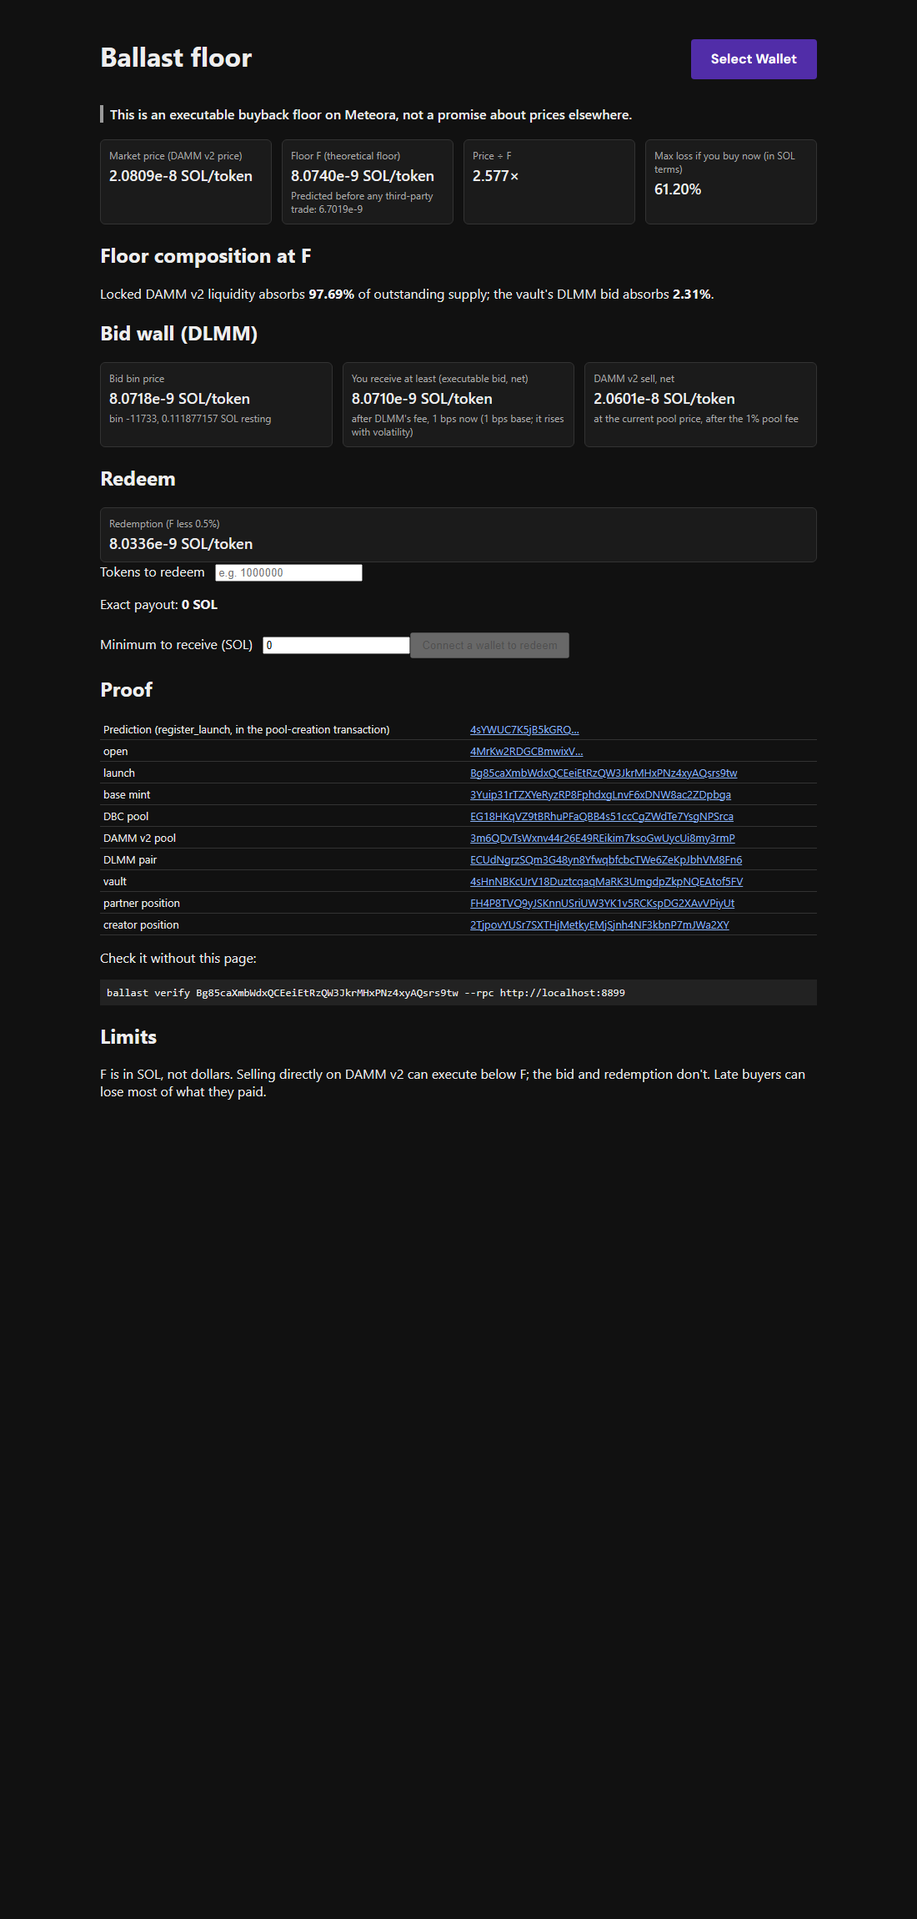
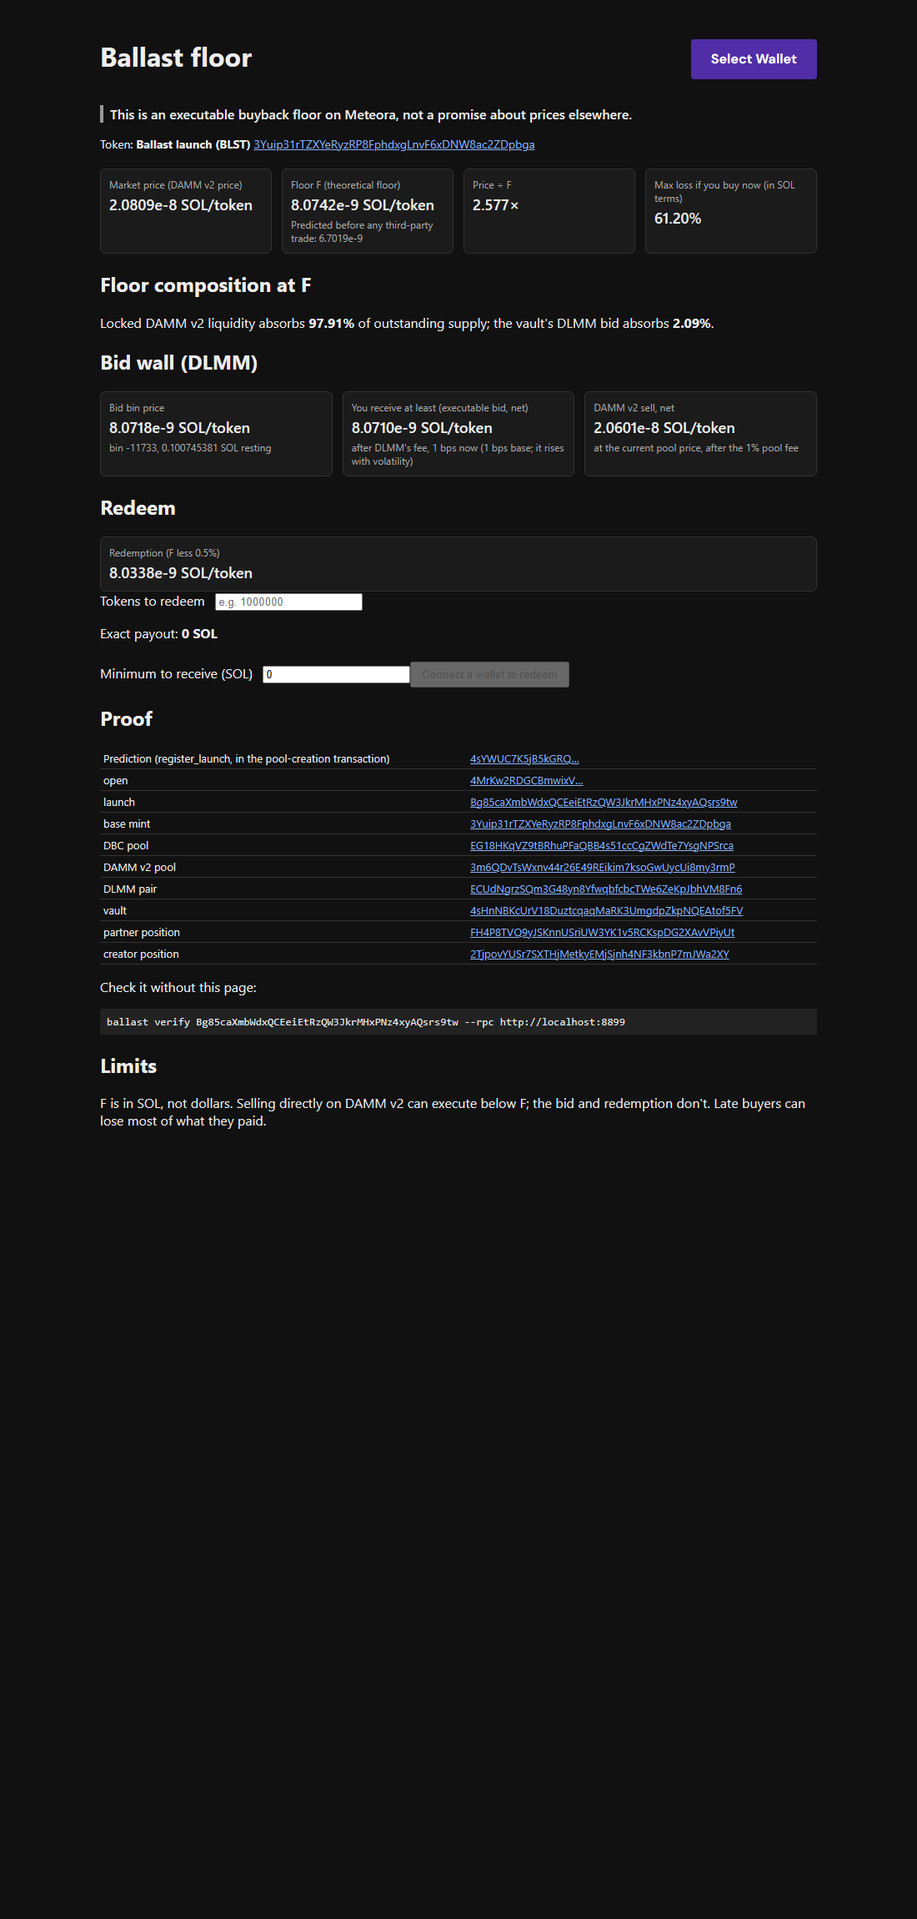
feat(app): token named in the header; Redeem path tested end to end; owner decisions recorded (§21, §10, D-011)
- The page header names the token from the mint's metadata (§21 header).
- pnpm -F app test:redeem: the page's quote, the transaction the Redeem button builds, signed and
  landed on the local ledger; payout = quote, tokens burned exactly, F rose, ledger still closes.
- Owner, 10 Oct: devnet option A approved (program unchanged); CLAUDE.md uses D-011's wording.
  The treasury-closed harvest change is not applied and stays open.

diff --git a/app/test/redeem.e2e.ts b/app/test/redeem.e2e.ts
@@ -1,0 +1,104 @@
+/**
+ * The page's one write path, end to end on the local proof ledger: the quote the Redeem panel shows,
+ * the transaction the Redeem button builds (`buildRedeemTx`, no lookup table), signed as a wallet
+ * would sign it, landed, and checked against the chain: tokens burned, WSOL received, the program's
+ * `Redeemed` event, §10's formula, and the page's numbers after reloading.
+ *
+ *   pnpm proof:local            # leaves the gate 9 launch Open with holders
+ *   pnpm -F app test:redeem
+ */
+import { readFileSync } from "node:fs";
+import { resolve } from "node:path";
+import { BorshCoder, EventParser } from "@coral-xyz/anchor";
+import BN from "bn.js";
+import { Connection, Keypair, PublicKey } from "@solana/web3.js";
+import { getAssociatedTokenAddressSync } from "@solana/spl-token";
+import { BallastClient, LAUNCH_STATE, WSOL } from "../../sdk/typescript/src/client";
+import { loadFloor } from "../../sdk/typescript/src/floor";
+import { buildRedeemTx, loadModel, REDEEM_FEE_BPS } from "../src/model";
+
+const REPO = resolve(__dirname, "../..");
+const RPC = process.env.RPC ?? "http://127.0.0.1:8899";
+
+async function main(): Promise<void> {
+  const conn = new Connection(RPC, "confirmed");
+  const idl = JSON.parse(readFileSync(resolve(REPO, "target/idl/ballast.json"), "utf8"));
+  const floor = await loadFloor(readFileSync(resolve(REPO, "target/wasm32-unknown-unknown/release/floor_wasm.wasm")));
+  const client = new BallastClient(conn, idl);
+  const all = (await (client.program.account as never as { launch: { all(): Promise<{ publicKey: PublicKey; account: { state: number; registeredSlot: BN } }[]> } }).launch.all())
+    .filter((x) => x.account.state === LAUNCH_STATE.open)
+    .sort((a, b) => Number(b.account.registeredSlot.toString()) - Number(a.account.registeredSlot.toString()));
+  const launch = process.env.LAUNCH ? new PublicKey(process.env.LAUNCH) : all[0]?.publicKey;
+  if (!launch) throw new Error("no Open launch on this ledger — run pnpm proof:local first");
+
+  // What the page shows before the click.
+  const before = await loadModel(conn, idl, launch, floor);
+  // A redemption worth a tenth of V: well above §10's 0.001 SOL minimum, well inside the vault.
+  const amount = ((before.inputs.v / 10n) << 128n) / (before.s * before.s);
+  const quote = floor.payout(amount, before.s, REDEEM_FEE_BPS);
+  if (quote < 1_000_000n) throw new Error(`the vault is too small for a redemption above the minimum (quote ${quote} lamports)`);
+
+  // A holder: the test wallet with the most tokens (the proof script's named wallets).
+  const keys = JSON.parse(readFileSync(resolve(REPO, "tests/integration/p0/.state/keys.json"), "utf8")) as Record<string, number[]>;
+  const bal = async (a: PublicKey) => conn.getTokenAccountBalance(a, "confirmed").then((b) => BigInt(b.value.amount), () => 0n);
+  let holder: Keypair | null = null;
+  let held = 0n;
+  for (const k of Object.values(keys)) {
+    const w = Keypair.fromSecretKey(Uint8Array.from(k));
+    const b = await bal(getAssociatedTokenAddressSync(before.baseMint, w.publicKey, true));
+    if (b > held) [holder, held] = [w, b];
+  }
+  if (!holder || held < amount) throw new Error(`no test wallet holds ${amount} base units of ${before.baseMint.toBase58()}`);
+  const baseAta = getAssociatedTokenAddressSync(before.baseMint, holder.publicKey, true);
+  const quoteAta = getAssociatedTokenAddressSync(WSOL, holder.publicKey, true);
+  const [base0, wsol0] = [await bal(baseAta), await bal(quoteAta)];
+
+  // The click: min_out defaults to the quote; the wallet signs, the page adds the order keypair.
+  const { tx, order, size } = await buildRedeemTx(conn, idl, launch, holder.publicKey, amount, quote);
+  tx.sign([order, holder]);
+  const signature = await conn.sendRawTransaction(tx.serialize(), { skipPreflight: true });
+  const bh = await conn.getLatestBlockhash("confirmed");
+  await conn.confirmTransaction({ signature, ...bh }, "confirmed");
+  let landed = await conn.getTransaction(signature, { commitment: "confirmed", maxSupportedTransactionVersion: 0 });
+  for (let i = 0; i < 40 && !landed?.meta; i++) {
+    await new Promise((r) => setTimeout(r, 250));
+    landed = await conn.getTransaction(signature, { commitment: "confirmed", maxSupportedTransactionVersion: 0 });
+  }
+  if (!landed?.meta) throw new Error(`${signature} not found`);
+  const logs = landed.meta.logMessages ?? [];
+  if (landed.meta.err) throw new Error(`redeem failed ${JSON.stringify(landed.meta.err)}\n${logs.join("\n")}`);
+
+  const events = [...new EventParser(new PublicKey(idl.address), new BorshCoder(idl)).parseLogs(logs)];
+  const ev = events.find((e) => e.name.toLowerCase() === "redeemed")?.data as Record<string, { toString(): string }> | undefined;
+  const pick = (k: string) => BigInt(String(ev?.[k] ?? ev?.[k.replace(/_(.)/g, (_m, c: string) => c.toUpperCase())] ?? -1));
+  const [sBefore, sAfter, paid] = [pick("s_before"), pick("s_after"), pick("payout")];
+  const [base1, wsol1] = [await bal(baseAta), await bal(quoteAta)];
+  const after = await loadModel(conn, idl, launch, floor);
+
+  const checks: Record<string, boolean> = {
+    fitsWithoutLookupTable: size <= 1232,
+    tokensBurnedExactly: base0 - base1 === amount,
+    wsolReceivedEqualsEvent: wsol1 - wsol0 === paid,
+    // Paid at s after settling the bid, which is never below the s the page quoted at.
+    payoutEqualsFormulaAtSettledS: paid === floor.payout(amount, sBefore, REDEEM_FEE_BPS),
+    payoutAtLeastPageQuote: paid >= quote,
+    floorDidNotFall: sAfter >= sBefore && sBefore >= before.s,
+    pageAfterShowsTheNewFloor: after.floorMatches && after.s === sAfter,
+    supplyFellByAmount: before.inputs.sSupply - after.inputs.sSupply >= amount,
+  };
+  console.log(JSON.stringify({
+    launch: launch.toBase58(), holder: holder.publicKey.toBase58(), signature, txBytes: size, cu: landed.meta.computeUnitsConsumed,
+    amountBaseUnits: amount, pageQuoteLamports: quote, paidLamports: paid, sPage: before.s, sBefore, sAfter, checks,
+  }, (_k, x) => (typeof x === "bigint" ? x.toString() : x), 2));
+  const failed = Object.entries(checks).filter(([, ok]) => !ok).map(([k]) => k);
+  if (failed.length) {
+    console.error(`FAIL: ${failed.join(", ")}`);
+    process.exit(1);
+  }
+  console.log(`PASS: ${Object.keys(checks).length} checks`);
+}
+
+main().catch((e) => {
+  console.error(e);
+  process.exit(1);
+});

diff --git a/app/src/model.ts b/app/src/model.ts
@@ -24,10 +24,30 @@ export const solPerToken = (lamportsPerBaseUnit: number) => lamportsPerBaseUnit 
 /** F in SOL per token from s = ⌊√F·2^64⌋. Display only. */
 export const fFromS = (s: bigint) => solPerToken((Number(s) / Q64) ** 2);
 
+const TOKEN_METADATA = new PublicKey("metaqbxxUerdq28cj1RbAWkYQm3ybzjb6a8bt518x1s");
+
+/** The token's name and symbol from its Metaplex metadata account (DBC creates it); null if unreadable. */
+async function tokenLabel(conn: Connection, mint: PublicKey): Promise<{ name: string; symbol: string } | null> {
+  const [pda] = PublicKey.findProgramAddressSync([Buffer.from("metadata"), TOKEN_METADATA.toBuffer(), mint.toBuffer()], TOKEN_METADATA);
+  const acc = await conn.getAccountInfo(pda, "confirmed");
+  if (!acc || !acc.owner.equals(TOKEN_METADATA) || acc.data.length < 69) return null;
+  // key (1) · update authority (32) · mint (32) · name (u32 length + bytes) · symbol (u32 length + bytes)
+  const text = (at: number): [string, number] | null => {
+    const len = acc.data.readUInt32LE(at);
+    if (len > 64 || at + 4 + len > acc.data.length) return null;
+    return [acc.data.subarray(at + 4, at + 4 + len).toString("utf8").replace(/\0/g, "").trim(), at + 4 + len];
+  };
+  const name = text(65);
+  const symbol = name && text(name[1]);
+  return name && symbol ? { name: name[0], symbol: symbol[0] } : null;
+}
+
 export interface Model {
   launch: PublicKey;
   state: number;
   baseMint: PublicKey;
+  /** §21 header "Token": name and symbol from the mint's metadata, when it can be read. */
+  token: { name: string; symbol: string } | null;
   /** §9's six prices, SOL per token (display). `bidBin` and `bidNet` are null when no bid rests. */
   prices: { F: number; bidBin: number | null; bidNet: number | null; damm: number; dammSellNet: number; redemption: number };
   s: bigint;
@@ -114,7 +134,7 @@ export async function loadModel(conn: Connection, idl: { address: string }, laun
     "partner position": v.partnerPosition!.toBase58(), "creator position": v.creatorPosition!.toBase58(),
   };
   return {
-    launch, state: rec.state, baseMint: v.baseMint,
+    launch, state: rec.state, baseMint: v.baseMint, token: await tokenLabel(conn, v.baseMint),
     prices: {
       F, bidBin, bidNet: bidBin === null ? null : bidBin * (1 - dlmmFeeBps / 10_000),
       damm, dammSellNet: damm * (1 - DAMM_FEE_BPS / 10_000), redemption: redemptionPerToken,

diff --git a/app/test/model.test.ts b/app/test/model.test.ts
@@ -76,9 +76,10 @@ async function main(): Promise<void> {
     predictionTxIsRegistration: (await logs(m.proof.predictionTx)).some((l) => l.includes("Instruction: RegisterLaunch")),
     openTxIsOpen: (await logs(m.proof.openTx)).some((l) => l.includes("Instruction: Open")),
     realisedAtLeastPredicted: m.prices.F >= m.predictedF,
+    tokenNamedFromMetadata: m.token !== null && m.token.name.length > 0 && m.token.symbol.length > 0,
     redeemTxFitsWithoutLookupTable: redeemTx.size <= 1232,
   };
-  console.log(JSON.stringify({ launch: launch.toBase58(), redeemTxBytes: redeemTx.size, F: m.prices.F, s: m.s.toString(), prices: m.prices, composition: m.composition, bid: m.bid, bidQuote, checks }, (_k, x) => (typeof x === "bigint" ? x.toString() : x), 2));
+  console.log(JSON.stringify({ launch: launch.toBase58(), token: m.token, redeemTxBytes: redeemTx.size, F: m.prices.F, s: m.s.toString(), prices: m.prices, composition: m.composition, bid: m.bid, bidQuote, checks }, (_k, x) => (typeof x === "bigint" ? x.toString() : x), 2));
   const failed = Object.entries(checks).filter(([, ok]) => !ok).map(([k]) => k);
   if (failed.length) {
     console.error(`FAIL: ${failed.join(", ")}`);

diff --git a/app/src/App.tsx b/app/src/App.tsx
@@ -102,6 +102,10 @@ export function App() {
           {!model.floorMatches && (
             <p className="error">The program's floor() and the floor crate disagree on these accounts — F is not shown as verified.</p>
           )}
+          <p className="token">
+            Token: <b>{model.token ? `${model.token.name} (${model.token.symbol})` : "unnamed"}</b>{" "}
+            <a href={explorerUrl(rpc, "address", model.baseMint.toBase58())} target="_blank" rel="noreferrer">{model.baseMint.toBase58()}</a>
+          </p>
           <section className="grid">
             <Price label="Market price (DAMM v2 price)" value={model.prices.damm} />
             <Price label="Floor F (theoretical floor)" value={model.prices.F} note={`Predicted before any third-party trade: ${sol(model.predictedF)}`} />

diff --git a/app/src/styles.css b/app/src/styles.css
@@ -3,6 +3,7 @@ main { max-width: 860px; margin: 0 auto; padding: 16px; }
 header { display: flex; justify-content: space-between; align-items: center; }
 .headline { font-weight: 600; border-left: 4px solid #333; padding-left: 8px; }
 section { margin: 20px 0; }
+.token { font-size: 14px; overflow-wrap: anywhere; }
 .grid { display: grid; grid-template-columns: repeat(auto-fit, minmax(180px, 1fr)); gap: 12px; }
 .price { background: #fff; border: 1px solid #ddd; border-radius: 6px; padding: 10px; }
 .price .label { font-size: 12px; color: #555; }

diff --git a/STATUS.md b/STATUS.md
@@ -19,7 +19,7 @@ What is left needs the owner: the video, the submission, and the decisions at th
 | `pnpm proof:local` | **PASS, rerun 10 Oct on a fresh ledger**: every claim, gates 4, 8, 9, 10 (`evidence/proof-local/`) |
 | §18 gates | 1, 2, 3, 5, 6, 7 PASS by suite · **4 PASS (10 Oct)** · 8, 9, 10 PASS. All local |
 | Keeper, SDK, Lite config (D-008) | DONE |
-| Token page (§21) | DONE: renders in Chrome, 13 model checks, browser smoke test (`evidence/app/`). Launch form cut (D-019). Redeem button not exercised with a real wallet |
+| Token page (§21) | DONE: renders in Chrome, 14 model checks, browser smoke test, Redeem path landed end to end on the local ledger (`pnpm -F app test:redeem`, `evidence/app/`). Launch form cut (D-019). A wallet extension has not signed the redeem transaction |
 | README, `JUDGES.md`, docs (incl. `docs/proof.md`), `docs/demo.md` | DONE, numbers from the 10 Oct run |
 | CI | fmt, clippy, unit, property, reference, wording, SBF lock; **added 10 Oct:** WASM differential, compiler check |
 | **Devnet** | **Program deployed and initialised (`HSSv351Q…`); `create_class` REFUSED** (`ConfigWrongVersion`: devnet's DBC writes config version 1, mainnet's 0). No class, no launch, no devnet proof. `evidence/proof-devnet/deploy.json` |
@@ -28,9 +28,7 @@ What is left needs the owner: the video, the submission, and the decisions at th
 
 ## Next
 
-1. **Owner: devnet decision** (`DECISIONS.md` "10 Oct 2026 — devnet"). Recommended: leave it — the
-   deployment and the refusal are the devnet evidence. Do not send more devnet SOL. The payer holds
-   7.105 SOL; `solana program close` would return 2.812 more.
+1. Development is closed (owner, 10 Oct: option A on devnet — `DECISIONS.md`). Nothing to build.
 2. **Video (11 Oct):** follow `docs/demo.md` (12 rows, each with its signature). The signatures are
    from the 10 Oct local ledger; if the validator is restarted, rerun `pnpm proof:local` and
    `python3 scripts/proof/demo_checklist.py` first.
@@ -44,7 +42,7 @@ pnpm localnet --quiet &                              # mainnet-binary validator,
 bash tests/integration/p0/up.sh                      # fund the payer
 anchor build && pnpm proof:local                     # ≈ 20 min; writes evidence/proof-local/
 pnpm exec tsx tests/integration/program/run.ts       # program suites (fresh ledger)
-pnpm -F app build && pnpm -F app test                # token page against the proof ledger
+pnpm -F app build && pnpm -F app test && pnpm -F app test:redeem   # token page against the proof ledger
 pnpm -F app exec vite preview --host 0.0.0.0 --port 4173 &
 CHROME=<chrome> LAUNCH=<launch> pnpm -F app smoke    # the page in a real browser
 ```
@@ -56,9 +54,7 @@ CHROME=<chrome> LAUNCH=<launch> pnpm -F app smoke    # the page in a real browse
 
 | Item | Detail |
 |---|---|
-| Devnet DBC config version 1 | A: leave as is (recommended). B: validate version 1 and ship a devnet-only build — changes an account check, does not fit before 11 Oct |
 | Treasury account closed → `harvest` reverts (MEDIUM) | `global.treasury` has no setter. Proposed: if the treasury is not a valid WSOL account, its share goes to the vault. Changes who is paid, so not applied. Disclosed in `docs/limitations.md` |
-| `CLAUDE.md` lines 11 and 83, spec §29 | Still say "before trade 1"; D-011 records the prediction in the pool-creation transaction, which contains a dust buy. Public copy already uses the D-011 wording |
 | Identity-rewrite leftovers (`backup/pre-identity-rewrite`, `refs/original`) | Kept until the owner confirms deletion |
 
 ## Open risks
@@ -70,5 +66,5 @@ CHROME=<chrome> LAUNCH=<launch> pnpm -F app smoke    # the page in a real browse
 | Devnet runs different Meteora builds | The devnet proof may diverge from the local one | D-001: the local result governs; record any divergence |
 | Local CU ≠ mainnet CU (finding T6) | Numbers near a limit could mislead | 6× headroom on `redeem`; cross-check on devnet |
 | D-020/D-021 cap is a third-party lever | Bid can sit up to 70 bins under F, or be suspended | Disclosed; redemption at F less 0.5% is unaffected |
-| Token page's redeem flow | Built and size-checked (995 bytes), never signed by a browser wallet | Try it with Phantom on the local or devnet ledger before filming |
+| Token page's redeem flow | Landed end to end from the page's own code path; never signed by a wallet extension | Try it once with Phantom on the local ledger before filming |
 | Program upgrade authority | The one path to the vault | Disclosed; multisig per §19 before any mainnet step |

diff --git a/DECISIONS.md b/DECISIONS.md
@@ -820,6 +820,28 @@ every launch, and `global.treasury` has no setter. Proposed fix: if the treasury
 valid SPL WSOL account, `harvest` sends the treasury's share to the vault as well (F rises; nothing
 is stranded). This changes who is paid, so it is the owner's call.
 
+### 10 Oct 2026 — owner: "go with the recommended plans"; development closed
+
+- **Devnet: option A APPROVED.** The program stays as it is; the devnet deployment and the refused
+  `create_class` are the devnet evidence; `pnpm proof:local` on the mainnet binaries is the proof.
+  No further devnet SOL. The program stays deployed on devnet for the judges.
+- **`CLAUDE.md` wording: changed** (mission paragraph and correction 3) to D-011's "in the
+  pool-creation transaction, before any third-party trade". Spec §29's "before trade 1" checkbox is
+  left as written; D-011 governs it.
+- **Treasury-closed `harvest`: NOT applied, still open.** It was a proposal, not a recommendation,
+  and it changes `programs/ballast`: the binary every piece of evidence is tied to (sha256
+  `fc09a069…5abb` — the 8 Oct audit and suites, the 10 Oct proof, the devnet deployment). Changing it
+  the evening before submission would need all of them rerun. Disclosed in `docs/limitations.md`;
+  to be decided before the upgrade authority is frozen.
+- **Token page, end to end.** §21's header now names the token (from the mint's metadata). The
+  Redeem path — the page's quote, the transaction the button builds, signed and landed on the local
+  ledger — is tested by `pnpm -F app test:redeem`: quote 11,131,776 lamports = paid, tokens burned
+  exactly, F rose, the page's F after reload equals `s_after`, 1,059 bytes with no lookup table,
+  206,340 CU (`evidence/app/redeem-e2e.txt`); the verifier's ledger still closes to the lamport
+  afterwards. Not exercised: a browser wallet extension signing that transaction.
+- **§21 launch form: not built** (D-019: launching is by script). §29's mainnet items (Proof and
+  Public launches, an outside wallet, the multisig) are not done and are reported as such (D-007).
+
 ### 10 Oct 2026 — devnet: deployed; `create_class` refused (devnet DBC writes config version 1) — STOPPED, owner decision
 
 The owner funded the devnet payer with 10 SOL. The deploy stage ran

diff --git a/CLAUDE.md b/CLAUDE.md
@@ -8,7 +8,8 @@ program-owned vault; the other 85% migrates into a DAMM v2 pool as two permanent
 PDA-owned positions. The whole vault rests as one DLMM limit order in the highest bin at or below F.
 F is the price at which locked liquidity plus the vault bid can absorb the entire outstanding supply,
 so every holder token can be sold at ≥ F. The claim is falsifiable: the floor is predicted on-chain
-before trade 1, and `ballast verify` recomputes it from raw accounts. Deadline 13 Oct 2026 06:59 UTC;
+in the pool-creation transaction, before any third-party trade (D-011), and `ballast verify`
+recomputes it from raw accounts. Deadline 13 Oct 2026 06:59 UTC;
 **we submit 11 Oct.** Two tiers, one mechanism (D-008): **Lite** (DBC config only, V = 0) and **Full**.
 
 **Environment:** every shell command runs after `source ~/.ballast-env`; work only in /home/hp/ballast
@@ -80,7 +81,7 @@ to the vault.
 
 1. **Bounded range.** The equation carries the `−L·(1/√P_max)` term; L is permanent-only, DAMM Q64 units.
 2. **Exact floor of the root** in integer arithmetic, so "F never falls" holds bit for bit across Rust, TS, verifier.
-3. **Both migrated positions are PDA-owned.** DBC pool-creator role transfers to `creator_auth` before trade 1.
+3. **Both migrated positions are PDA-owned.** DBC pool-creator role transfers to `creator_auth` in the pool-creation transaction, before any third-party trade (D-011).
 4. **Fills are collected only by cancelling.** "Settle" = cancel → burn → re-place. There is no claim endpoint.
 5. **100% of the vault sits in the DLMM bid.** Redemption is atomic cancel → burn → pay → re-place.
 6. **The prediction is a lower bound.** The claim is "realised F ≥ predicted F", with a declared upper tolerance.

diff --git a/JUDGES.md b/JUDGES.md
@@ -34,7 +34,7 @@ local validator — never mocks (D-001).
 | `ballast verify <launch> --rpc <url>` recomputes everything from raw accounts | `crates/verifier-core`, `verifier/`, `docs/verifier.md` |
 | `pnpm proof:local` — the full §22 Proof launch on mainnet binaries: realised F +1.34% over the prediction; 72-sell full sell-out, lowest execution 1.0173·F; F never lower; gates 8–10 PASS | `evidence/proof-local/summary.md`, `docs/proof.md`, `docs/demo.md` |
 | The §10 ledger closes to the lamport from chain data: live V = recorded inflows − fills − redemptions, supply = minted − burned, every counter = the sum of its events (gate 4) — on the Proof launch and again after 200 random transactions | `ballast verify` line "Ledger" (`evidence/proof-local/verify.txt`), `crates/verifier-core/src/ledger.rs` |
-| The token page renders in a real browser and its numbers equal the verifier's and a real DLMM quote | `evidence/app/`, `app/test/model.test.ts` (13 checks), `app/test/smoke.mjs` |
+| The token page renders in a real browser, its numbers equal the verifier's and a real DLMM quote, and its Redeem transaction lands and pays exactly the quote shown | `evidence/app/`, `app/test/model.test.ts` (14 checks), `app/test/redeem.e2e.ts`, `app/test/smoke.mjs` |
 
 ## 3. Originality and taste
 

diff --git a/README.md b/README.md
@@ -72,8 +72,9 @@ One page per launch (§21): market price, F and price ÷ F, the maximum loss if 
 of the supply the locked pool and the vault bid each absorb at F, the bid wall, redemption with an
 exact quote, and the proof transactions. F is shown only when the program's `floor()` view and the
 floor crate (compiled to WebAssembly) agree on the same live accounts. `pnpm -F app test` checks the
-page's numbers against `ballast verify` and a real DLMM sell quote; `pnpm -F app smoke` loads the built
-page in Chrome and checks that it renders ([`evidence/app/`](evidence/app/)).
+page's numbers against `ballast verify` and a real DLMM sell quote; `pnpm -F app test:redeem` lands the
+Redeem button's transaction and checks the payout against the page's quote; `pnpm -F app smoke` loads
+the built page in Chrome and checks that it renders ([`evidence/app/`](evidence/app/)).
 
 ### Reproduce the whole proof on Meteora's mainnet binaries
 
